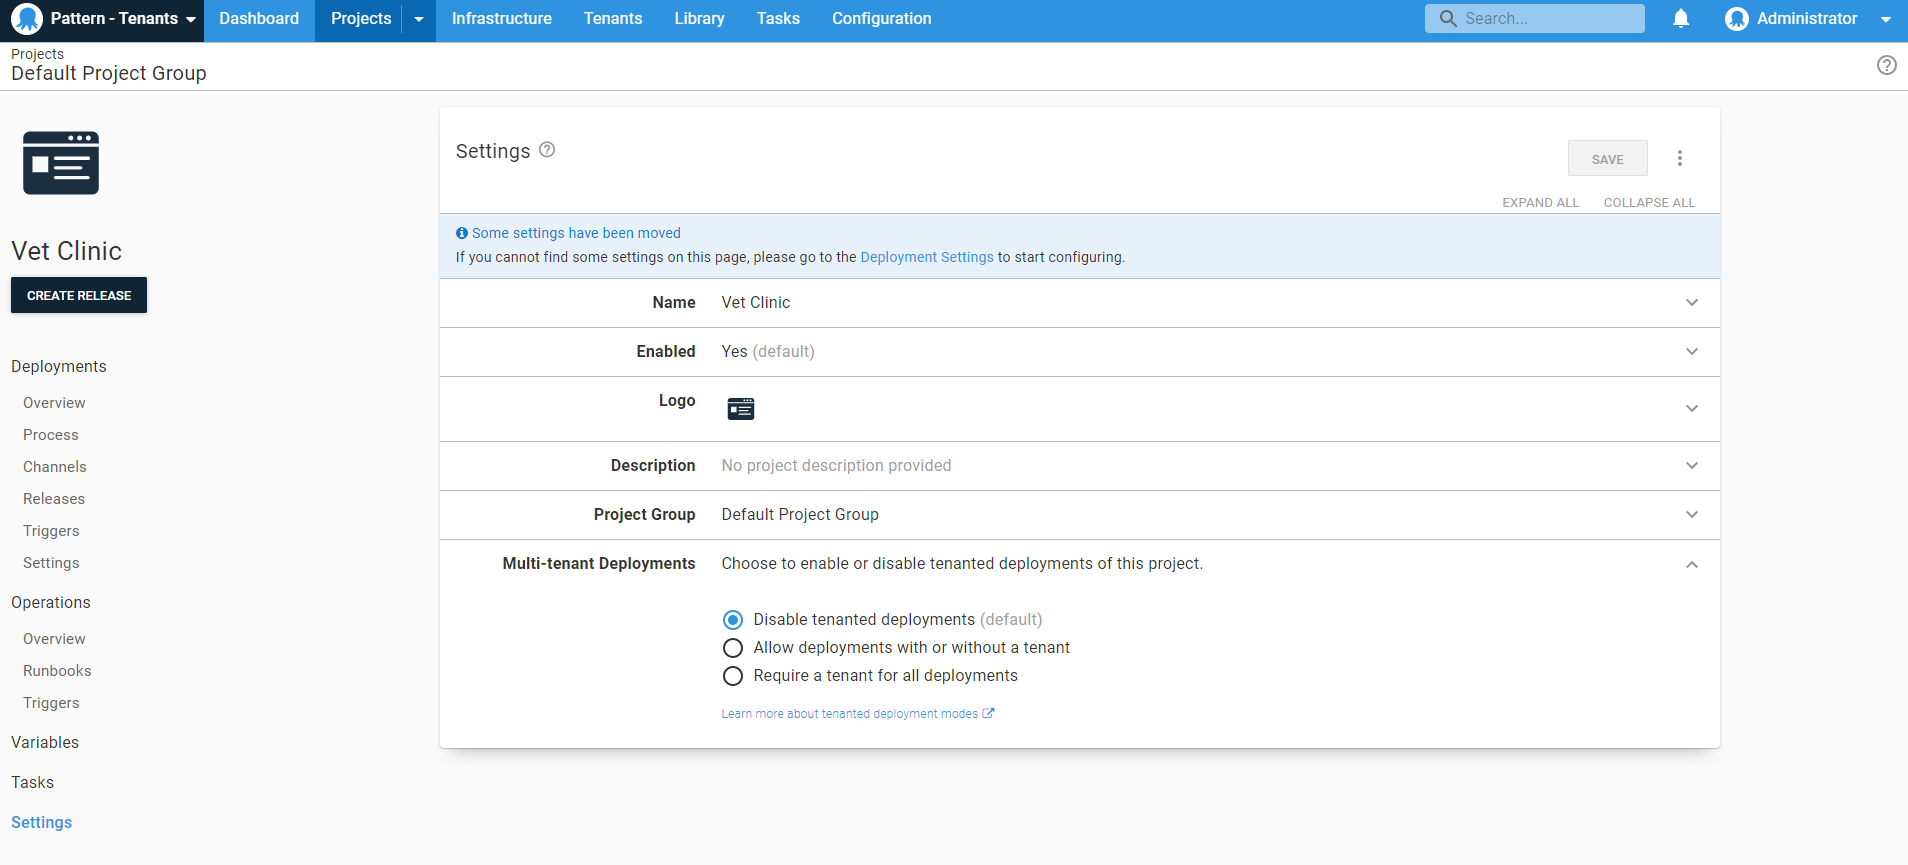
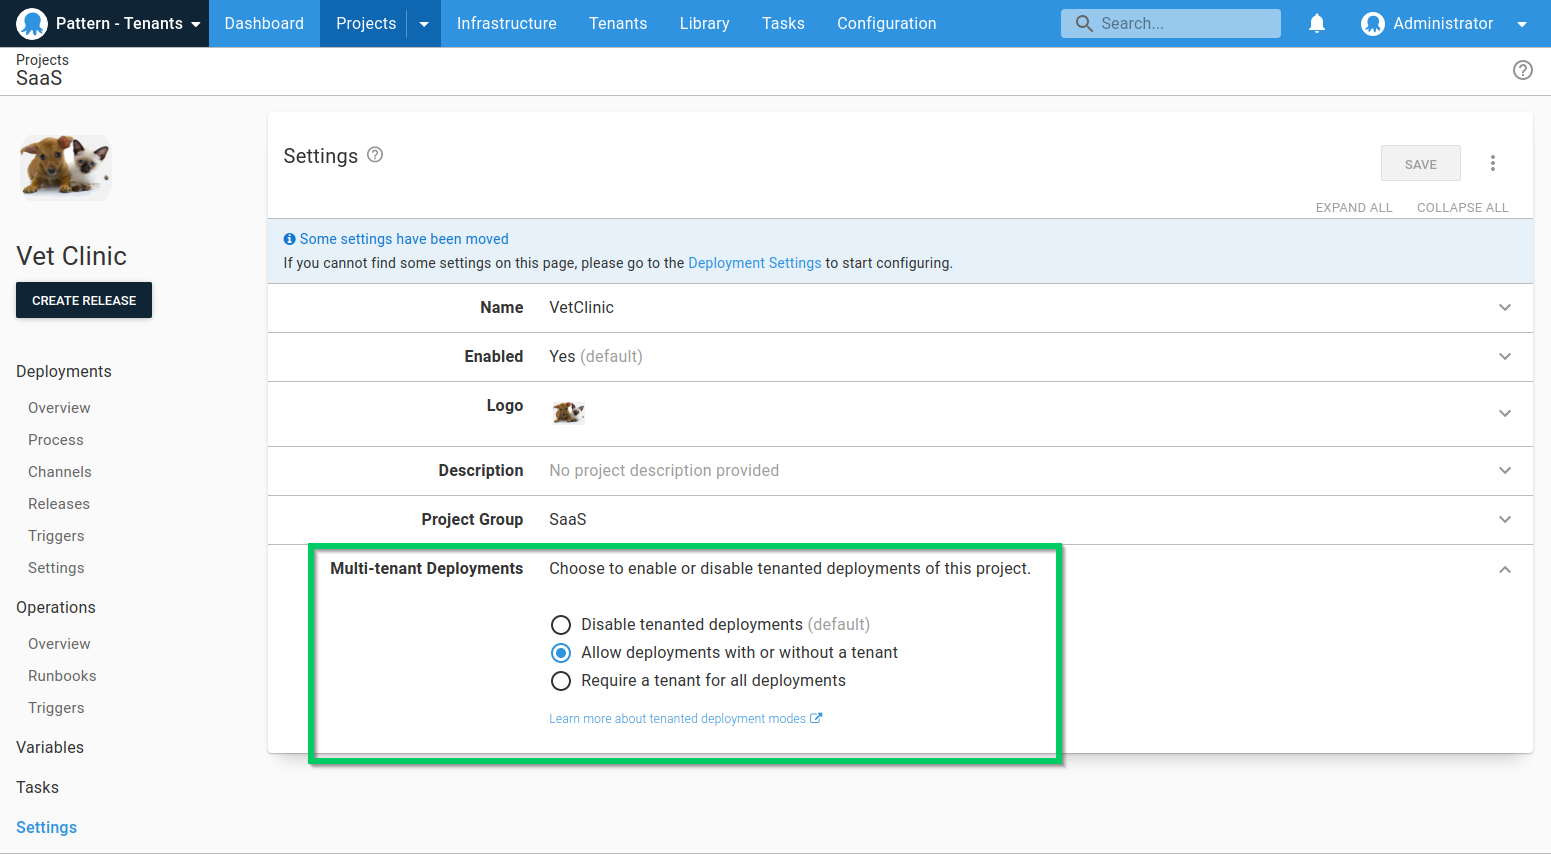
line edits

diff --git a/docs/tenants/guides/multi-tenant-saas-application/creating-new-tenants.md b/docs/tenants/guides/multi-tenant-saas-application/creating-new-tenants.md
@@ -5,28 +5,31 @@ position: 40
 hideInThisSectionHeader: true
 ---
 
-The first step in this guide is to create the tenants needed for this scenario:
+VetClinic has four customers; an internal customer used for development and testing, and three customers
 
-- Internal 
+- VetClinic Internal
 - Capital Animal Hospital
 - Companion Care Vets
 - Midland Veterinary
 
-Each customer is modeled as a tenant and will have two environments, staging and production. We also create a tenant called Internal for internal developing and testing before new releases get pushed to staging.
+Each customer is modeled as a tenant and has two environments they deploy to. The internal tenant is used to deploy new releases to development and test before they are promoted to the other tenants, who deploy to staging and production.
 
 To create your tenants follow these steps:
 
 !include <tenants-create-tenant>
 
-Once the tenant is created you need to associate the tenant with a project and environment. You can choose to connect the project with many projects and environments. For the Internal tenant, we only need to be able to deploy VetClinic to the development and test environments. The Customer tenants need staging and production but not development and test.
+Once the tenant is created, you need to associate the tenant with a project and environment. You can choose to connect the tenant with many projects and environments. For the internal tenant, we only need to be able to deploy VetClinic to the development and test environments. The customer tenants need staging and production but not development and test.
 
-![](/images/enable-tenanted-deployments.png "width=500")
+![](images/associate-tenant-with-project.png "width=500")
 
-Repeat this process for each of the tenants, and then move on to the next section in the guide.
+Each customer is deployed into exactly one Azure region. To ensure that the application is deployed to the correct location, we must associate each tenant with the correct tag.
 
-We set the Azure Region tag to this tenant, this is where the tenant will be hosted in Azure.
+In the tenant overview, Click on **MANAGE TAGS** to edit which tags are associated to a Tenant and select one of the Azure regions for your tenant
 
-![](/images/manage-tenant-tag-set.png "width=500")
+![](images/manage-tenant-tag-set.png "width=500")
 
+Repeat this process for each of the tenants. 
 
-<span><a class="btn btn-secondary" href="/docs/tenants/guides/multi-tenant-saas-application/creating-tenant-tag-set">Previous</a></span>&nbsp;&nbsp;&nbsp;&nbsp;&nbsp;<span><a class="btn btn-success" href="/docs/tenants/guides/multi-tenant-saas-application/creating-new-azure-infrastrucure">Next</a></span>
+The next section covers the [tenant infrastructure](/docs/tenants/guides/multi-tenant-saas-application/creating-new-azure-infrastructure.md) needed for this scenario.
+
+<span><a class="btn btn-secondary" href="/docs/tenants/guides/multi-tenant-saas-application/creating-tenant-tag-set">Previous</a></span>&nbsp;&nbsp;&nbsp;&nbsp;&nbsp;<span><a class="btn btn-success" href="/docs/tenants/guides/multi-tenant-saas-application/creating-new-azure-infrastructure">Next</a></span>

diff --git a/docs/tenants/guides/multi-tenant-saas-application/creating-tenant-tag-set.md b/docs/tenants/guides/multi-tenant-saas-application/creating-tenant-tag-set.md
@@ -5,13 +5,15 @@ position: 30
 hideInThisSectionHeader: true
 ---
 
-We need two tenant tag sets, one for selecting the Azure cloud region where the application will be hosted and one for application custimiztions. One offering from Vet Clinic is the ability to allow customers to apply custom branding to there instance and we can use tenant tags to ensure our deployment process stays the same even if customers choose to have custom branding.
+Customers who use Vet Clinic can choose from a pre-defined list of Azure regions to host their web application. To designate which tenant (customer) is in which region we define [Tenant Tag Sets](/docs/tenants/tenant-tags.md).
 
-To create Tenant Tags Sets navigate to **{{Library, Tenant Tag Sets, Add ADD TAG SET}}**.
+For this scenario, we need a single tenant tag set for the Azure region.
 
-![](/images/enable-tenanted-deployments.png "width=500")
+To create Tenant Tags Sets navigate to **{{Library, Tenant Tag Sets, ADD TAG SET}}**.
 
-First, we need to create a tag set for our Azure regions and the following tags;
+![](images/add-new-tenant-tag.png "width=500")
+
+Give the **Tag Set** a name, an optional description, and create some Tags.  For the Vet Clinic application, we need to create an Azure Region Tag Set with the following Azure Regions as the Tags:
 
 * West US 
 * West US 2
@@ -19,12 +21,8 @@ First, we need to create a tag set for our Azure regions and the following tags;
 * East US
 * East US 2
 
-![](/images/creating-new-tenant-tag.png "width=500")
+![](images/creating-new-tenant-tag-region.png "width=500")
 
-
-For further reading on tenant tages in Octopus Deploy please see:
-
-- [Tenant Tags](/docs/tenants/tenant-tags.md)
-
+In the next step, we'll [create the tenants](/docs/tenants/guides/multi-tenant-saas-application/creating-new-tenant.md) needed for this scenario.
 
 <span><a class="btn btn-secondary" href="/docs/tenants/guides/multi-tenant-saas-application/creating-new-project">Previous</a></span>&nbsp;&nbsp;&nbsp;&nbsp;&nbsp;<span><a class="btn btn-success" href="/docs/tenants/guides/multi-tenant-saas-application/creating-new-tenants">Next</a></span>

diff --git a/docs/tenants/guides/multi-tenant-saas-application/index.md b/docs/tenants/guides/multi-tenant-saas-application/index.md
@@ -2,14 +2,13 @@
 title: Multi-tenant SaaS applications
 description: A guide showing you how to use tenants to deploy a multi-tenant SaaS application using Octopus Deploy.
 position: 10
+hideInThisSectionHeader: true
 ---
 
-This guide will introduce you to Software as a Service (SaaS) multi-tenant deployments in Octopus. In this guide, we will be deploying an application called Vet Clinic. When a customer signs up to Vet Clinic, they get their own Azure Web App and database for staging and production, choosing which region the application and data are hosted in.
-
-:::hint
-Multi-tenant deployments are an advanced pattern, and these guides assume you are already familiar with Octopus concepts like [projects](/docs/projects/index.md), [environments](/docs/infrastructure/environments/index.md), [lifecycles](/docs/releases/lifecycles/index.md), [variables](/docs/projects/variables/index.md) and [deploying applications](/docs/deployments/index.md).
-:::
-
-
+This guide will introduce you to Software as a Service (SaaS) multi-tenant deployments in Octopus. In this guide, we will be deploying an application called **Vet Clinic**. When a customer signs up to Vet Clinic, they get their own [Azure Web App](/docs/infrastructure/deployment-targets/azure/web-app-targets/index.md) and database for staging and production, choosing which region the application and data are hosted in.
 
 <span><a class="btn btn-success" href="/docs/tenants/guides/multi-tenant-saas-application/creating-new-project">Get Started</a></span>
+
+## Guide contents
+
+The following sections make up the guide:

diff --git a/docs/tenants/guides/multi-tenant-saas-application/creating-new-project.md b/docs/tenants/guides/multi-tenant-saas-application/creating-new-project.md
@@ -1,6 +1,6 @@
 ---
-title: Creating new project
-description: Creates a new project for our guide
+title: Creating the project
+description: Create the project used as part of a multi-tenant SaaS setup in Octopus Deploy.
 position: 20
 hideInThisSectionHeader: true
 ---
@@ -9,10 +9,10 @@ The first step in this guide is to create a project that will be deployed to our
 
 !include <tenants-create-project>
 
-Next, you need to make sure the project has tenanted deployments enabled.
+3. Next, you need to make sure the project has [tenanted deployments](/docs/tenants/tenant-creation/tenanted-deployments.md) enabled
 
+    ![](images/enable-tenanted-deployments.png "width=500")
 
-![](/images/enable-tenanted-deployments.png "width=500")
+The next step will define the [Tenant tag set](/docs/tenants/guides/multi-tenant-saas-application/creating-new-project.md) needed for this scenario.
 
-
-<span><a class="btn btn-secondary" href="/docs/tenants/guides/multi-tenant-saas-application">Previous</a></span>&nbsp;&nbsp;&nbsp;&nbsp;&nbsp;<span><a class="btn btn-success" href="/docs/tenants/guides/multi-tenant-saas-application/creating-tenant-tags">Next</a></span>
+<span><a class="btn btn-secondary" href="/docs/tenants/guides/multi-tenant-saas-application">Previous</a></span>&nbsp;&nbsp;&nbsp;&nbsp;&nbsp;<span><a class="btn btn-success" href="/docs/tenants/guides/multi-tenant-saas-application/creating-tenant-tag-set">Next</a></span>

diff --git a/docs/tenants/guides/multi-tenant-teams/index.md b/docs/tenants/guides/multi-tenant-teams/index.md
@@ -2,6 +2,7 @@
 title: Multi-tenant teams
 description: A guide showing you how to use tenants to support multiple teams developing the same application using Octopus Deploy.
 position: 10
+hideInThisSectionHeader: true
 ---
 
 This guide demonstrates using the tenant feature to support multiple teams developing the same application.  The Octo Pet Shop application supports multiple development teams.  Each team has dedicated infrastructure so the application can be individually tested before submitting to QA for verification, deployed to staging, and finally production.  In this scenario, we have a total of three teams, each configured as a tenant:
@@ -13,3 +14,7 @@ This guide demonstrates using the tenant feature to support multiple teams devel
 The development teams have the ability to create and deploy releases to their specific tenant to the Development environment only.  QA is able to deploy to the QA tenant in Test, and Operations are able to deploy to Staging and Production.  Operations, in this case, is not a tenant so the Staging and Production environments are untenanted.
 
 <span><a class="btn btn-success" href="/docs/tenants/guides/multi-tenant-teams/creating-new-tenants">Get Started</a></span>
+
+## Guide contents
+
+The following sections make up the guide:

diff --git a/docs/tenants/guides/multi-tenant-region/index.md b/docs/tenants/guides/multi-tenant-region/index.md
@@ -2,6 +2,7 @@
 title: Multi-tenant regions
 description: A guide showing you how to use tenants to deploy an application to regions using different release rings in Octopus Deploy.
 position: 10
+hideInThisSectionHeader: true
 ---
 
 This guide introduces the concept of using geographic locations as tenants for an application as well as different upgrade rings.  In this guide, we are using a fictitious Car Rental company that has three locations; Los Angeles International Airport (LAX), Des Moines Iowa, and Norfolk Virginia.  In this scenario, the Des Moines location is used as a pilot facility, with Norfolk testing beta features.  LAX is their busiest location so it uses only stable releases.
@@ -9,3 +10,7 @@ This guide introduces the concept of using geographic locations as tenants for a
 The Car Rental company utilizes Azure to host the application for its stores.  To minimize latency, the application is deployed to the closest Azure datacenter known as regions; LAX uses `West US`, De Moines uses `Central US`, and the Norfolk location uses `East US`.  
 
 <span><a class="btn btn-success" href="/docs/tenants/guides/multi-tenant-region/creating-new-tenants">Get Started</a></span>
+
+## Guide contents
+
+The following sections make up the guide:

diff --git a/docs/tenants/guides/multi-tenant-saas-application/creating-new-azure-infrastructure.md b/docs/tenants/guides/multi-tenant-saas-application/creating-new-azure-infrastructure.md
@@ -1,6 +1,6 @@
 ---
-title: Creating infrastrcure an Azure for each tenant
-description: Create infrastructure for each tenant
+title: Creating Azure tenant infrastructure
+description: Create tenant infrastructure in Azure as part of a multi-tenant SaaS setup in Octopus Deploy.
 position: 50
 hideInThisSectionHeader: true
 ---
@@ -34,5 +34,4 @@ A quick way to create the App Service Plan is go use the Azure Portal UI to begi
 5. Create an Azure Resource Group using the following code:
 
 
-
-<span><a class="btn btn-secondary" href="/docs/tenants/guides/multi-tenant-saas-application/creating-tenant-tag-set">Previous</a></span>&nbsp;&nbsp;&nbsp;&nbsp;&nbsp;<span><a class="btn btn-success" href="/docs/tenants/guides/multi-tenant-saas-application/creating-tenant-tags">Next</a></span>
+<span><a class="btn btn-secondary" href="/docs/tenants/guides/multi-tenant-saas-application/creating-new-tenants">Previous</a></span>&nbsp;&nbsp;&nbsp;&nbsp;&nbsp;<span><a class="btn btn-success" href="/docs/tenants/guides/multi-tenant-saas-application/creating-tenant-tags">Next</a></span>

diff --git a/docs/tenants/guides/multi-tenant-region/creating-tenant-tags.md b/docs/tenants/guides/multi-tenant-region/creating-tenant-tags.md
@@ -5,7 +5,7 @@ position: 10
 hideInThisSectionHeader: true
 ---
 
-The Car Rental company utilizes Azure to host the application for the different stores in their chain.  In addition, each store plays a different role in the development lifecycle by participating in different upgrade rings.  To designate which tenant is in which region and upgrade ring, we define **Tenant Tag Sets**.
+The Car Rental company utilizes Azure to host the application for the different stores in their chain.  In addition, each store plays a different role in the development lifecycle by participating in different upgrade rings.  To designate which tenant is in which region and upgrade ring, we define we define [Tenant Tag Sets](/docs/tenants/tenant-tags.md).
 
 ## Creating Tenant Tag Sets
 
